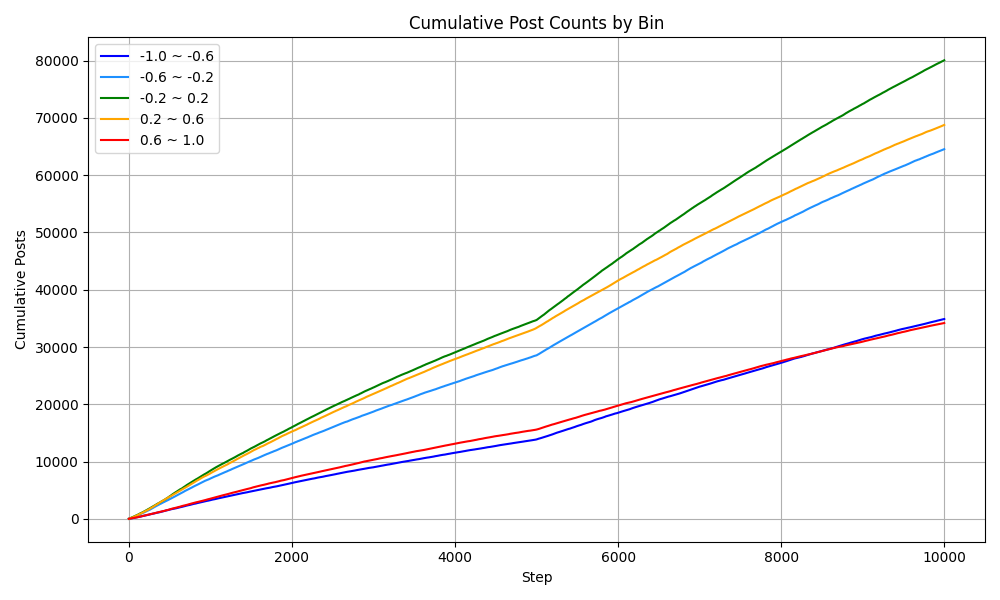
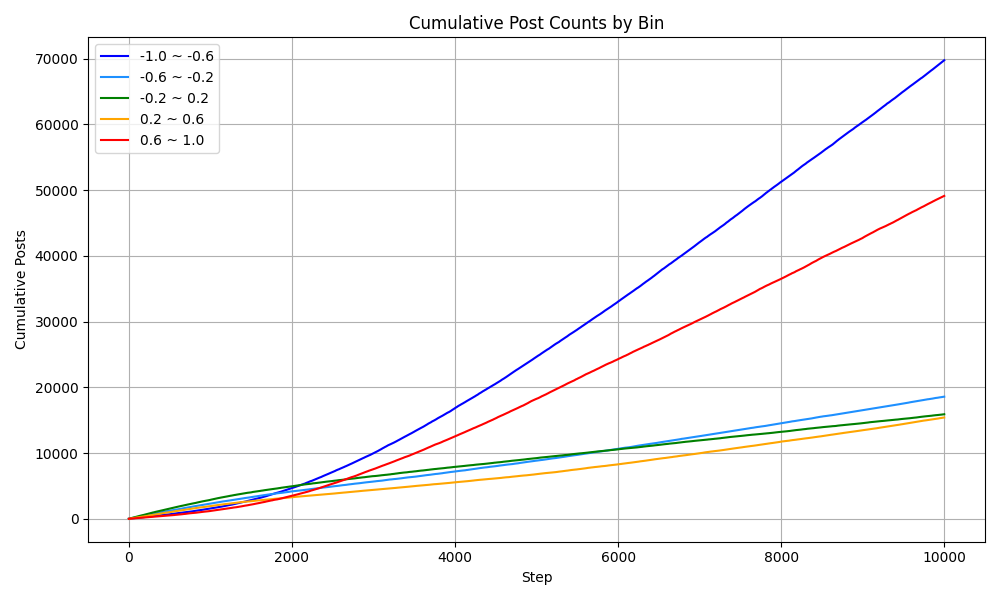
experiment successful as for post polarization

diff --git a/src/admin/AdminOptim.java b/src/admin/AdminOptim.java
@@ -21,7 +21,7 @@ public class AdminOptim {
         return this.W.clone();
     }
 
-    public int[] getFollowerList(){
+    public int[] getFollowerList() {
         return this.followerNumArray.clone();
     }
 
@@ -75,43 +75,47 @@ public class AdminOptim {
     public void updateAdjacencyMatrix(int userId, int likedId, int followedId, int unfollowedId) {
         if (likedId >= 0) {
             // フォローしていないユーザに対するいいねは無視
-            if(this.W[userId][likedId] > 0.0){
-                this.W[userId][likedId] += Const.LIKE_INCREASE_WEIGHT;
-            }
+            /*
+             * if(this.W[userId][likedId] > 0.0){
+             * this.W[userId][likedId] += Const.LIKE_INCREASE_WEIGHT;
+             * }
+             */
             // this.W[userId][likedId] = 1.01 * this.W[userId][likedId];
             // System.out.println("increased weight : " + this.W[userId][likedId]);
         }
         if (followedId >= 0) {
-            this.W[userId][followedId] = Const.FOLLOW_INCREASE_WEIGHT;
+            // this.W[userId][followedId] = Const.FOLLOW_INCREASE_WEIGHT;
+            this.W[userId][followedId] = 1.0;
         }
         if (unfollowedId >= 0) {
             this.W[userId][unfollowedId] = 0.0;
         }
 
-        double rowSum = 0.0;
-        for (int j = 0; j < n; j++) {
-            if (this.W[userId][j] > 0.5) {
-                this.W[userId][j] = 0.5;
-            }else if(this.W[userId][j] < 0.0){
-                this.W[userId][j] = 0.0;
-            }
-            rowSum += this.W[userId][j];
-        }
-        if (rowSum > 0.0) {
-            for (int j = 0; j < n; j++) {
-                this.W[userId][j] /= rowSum;
-            }
-        }
-       /*if(userId == 10){
-            for(int i = 0; i < n ; i++){
-                System.out.println(this.W[userId][i]);
-            }
-        }*/
+        /*
+         * double rowSum = 0.0;
+         * for (int j = 0; j < n; j++) {
+         * if (this.W[userId][j] > 0.5) {
+         * this.W[userId][j] = 0.5;
+         * }else if(this.W[userId][j] < 0.0){
+         * this.W[userId][j] = 0.0;
+         * }
+         * rowSum += this.W[userId][j];
+         * }
+         * if (rowSum > 0.0) {
+         * for (int j = 0; j < n; j++) {
+         * this.W[userId][j] /= rowSum;
+         * }
+         * }
+         * if(userId == 10){
+         * for(int i = 0; i < n ; i++){
+         * System.out.println(this.W[userId][i]);
+         * }
+         * }
+         */
         setFollowerNumArray();
     }
 
-    // あるユーザのfeed配列(閲覧投稿数の上限)を決定する関数
-    public void AdminFeedback(int userId, Agent[] agentSet) {
+    public void AdminFeedback(int userId, Agent[] agentSet, List<Post> latestPostList) {
         // iにとってfeed[j]はjの投稿を閲覧できる上限
         // これをW行列から算出する
         int postNum = agentSet[userId].getNumOfPosts(); // ユーザが一度の閲覧で消費する投稿数の上限
@@ -123,55 +127,75 @@ public class AdminOptim {
         }
 
         // add posts from user's postCash to user's feed depending on W matrix
-        int[] maxPostNumArray = new int[this.n];
-        for (int i = 0; i < n; i++) {
-            maxPostNumArray[i] = (int) Math.round(this.W[userId][i] * friendPostNum);
-            if(userId == 182){
-               // System.out.println("max post array : " + maxPostNumArray[i] + ", W[i][j] " + this.W[userId][i]);
-            //System.out.println("W and friedn num " + W[userId][136] + ", "+ friendPostNum);
-            }
+        /*
+         * int[] maxPostNumArray = new int[this.n];
+         * for (int i = 0; i < n; i++) {
+         * maxPostNumArray[i] = (int) Math.round(this.W[userId][i] * friendPostNum);
+         * if(userId == 182){
+         * // System.out.println("max post array : " + maxPostNumArray[i] + ", W[i][j] "
+         * + this.W[userId][i]);
+         * //System.out.println("W and friedn num " + W[userId][136] + ", "+
+         * friendPostNum);
+         * }
+         * }
+         * for (Post post : agentSet[userId].getPostCash().getAllPosts()) {
+         * if (maxPostNumArray[post.getPostUserId()] > 0) {
+         * if(userId % 100 == 0){
+         * //System.out.println("max post num array is " +
+         * maxPostNumArray[post.getPostUserId()]);
+         * }
+         * agentSet[userId].addPostToFeed(post);
+         * maxPostNumArray[post.getPostUserId()]--;
+         * }
+         * }
+         */
+        int addedPost = 0;
+        if(agentSet[userId].getId() % 100 == 0){
+            //System.out.println("post cash size : " + agentSet[userId].getPostCash().getSize());
         }
-        /*for (Post post : agentSet[userId].getPostCash().getAllPosts()) {
-            if (maxPostNumArray[post.getPostUserId()] > 0) {
-                if(userId % 100 == 0){
-                    //System.out.println("max post num array is " + maxPostNumArray[post.getPostUserId()]);
-                }
-                agentSet[userId].addPostToFeed(post);
-                maxPostNumArray[post.getPostUserId()]--;
-            }
-        }*/
         for (Post post : agentSet[userId].getPostCash().getAllPosts()) {
-            //if(this.W[userId][post.getPostUserId()] > 0.0){
-                agentSet[userId].addPostToFeed(post);
-            //}      
+            // if(this.W[userId][post.getPostUserId()] > 0.0){
+            agentSet[userId].addPostToFeed(post);
+            addedPost++;
+            // }
+        }
+        int l = 1;
+        while (addedPost < postNum && l <= latestPostList.size()) {
+            agentSet[userId].addPostToFeed(latestPostList.get(latestPostList.size() - l));
+            l++;
+            addedPost++;
         }
 
         // add recommendation posts to user's feeds
         // いいねが集まってるやつとか、フォロワーが多い人のとか
-        /*int temp = 0;
-        int recommended = 0;
-        if (recommendPostQueue.isEmpty()) {
-            return;
-        }
-        for (int i = recommendPostQueue.size() - 1; i >= 0 && temp < recommendPostNum; i--) {
-            if(recommendPostQueue.get(i).getPostUserId() == userId){
-                continue;
-            }
-            agentSet[userId].addPostToFeed(recommendPostQueue.get(i));
-            recommended++;
-            temp++;
-        }
-
-        if(postNum - agentSet[userId].getFeed().size() > 10){
-            for (int i = recommendPostQueue.size() - recommended - 1; i >= 0 && agentSet[userId].getFeed().size() + 1 <= postNum; i--) {
-                if(recommendPostQueue.get(i).getPostUserId() == userId){
-                    continue;
-                }
-                agentSet[userId].addPostToFeed(recommendPostQueue.get(i));
-            }
-        }
-        if(postNum - agentSet[userId].getFeed().size() > 10){
-            System.out.println("size underflow !!");
-        }*/
+        /*
+         * int temp = 0;
+         * int recommended = 0;
+         * if (recommendPostQueue.isEmpty()) {
+         * return;
+         * }
+         * for (int i = recommendPostQueue.size() - 1; i >= 0 && temp <
+         * recommendPostNum; i--) {
+         * if(recommendPostQueue.get(i).getPostUserId() == userId){
+         * continue;
+         * }
+         * agentSet[userId].addPostToFeed(recommendPostQueue.get(i));
+         * recommended++;
+         * temp++;
+         * }
+         * 
+         * if(postNum - agentSet[userId].getFeed().size() > 10){
+         * for (int i = recommendPostQueue.size() - recommended - 1; i >= 0 &&
+         * agentSet[userId].getFeed().size() + 1 <= postNum; i--) {
+         * if(recommendPostQueue.get(i).getPostUserId() == userId){
+         * continue;
+         * }
+         * agentSet[userId].addPostToFeed(recommendPostQueue.get(i));
+         * }
+         * }
+         * if(postNum - agentSet[userId].getFeed().size() > 10){
+         * System.out.println("size underflow !!");
+         * }
+         */
     }
 }

diff --git a/src/agent/Agent.java b/src/agent/Agent.java
@@ -155,6 +155,16 @@ public class Agent {
         this.opinionClass = (int) Math.min(shiftedOpinion / opinionBinWidth, Const.NUM_OF_BINS_OF_OPINION - 1);
     }
 
+    public void setFollowList(double[][] W){
+        for(int i = 0 ; i < W.length ; i++){
+            for(int j = 0 ; j < W.length; j++){
+                if(W[i][j] > 0.0){
+                    this.followList[j] = true;
+                }
+            }
+        }
+    }
+
     public void addToPostCash(Post post) {
         if (!this.alreadyAddedPostIds.contains(post.getPostId())) {
             this.postCash.addPost(post);
@@ -163,8 +173,8 @@ public class Agent {
 
     // other methods
     public void receiveLike(){
-        this.postProb += 0.1;
-        //this.mediaUseRate += 0.01;
+        this.postProb += 0.001;
+        //this.mediaUseRate += 0.001;
     }
 
     public void resetPostCash() {
@@ -210,14 +220,17 @@ public class Agent {
 
         if (comfortPostRate > Const.COMFORT_RATE) {
             //this.postProb += 0.01 * decayFunc(this.timeStep);
-            this.postProb += 0.001;
+            this.postProb += 0.01;
             //this.mediaUseRate += 0.01 * decayFunc(this.timeStep);
-           // this.mediaUseRate += 0.01;
+           //this.mediaUseRate += 0.01;
         } else {
             //this.postProb -= 0.0001 * decayFunc(this.timeStep);
             this.postProb -= 0.001;
+            if(this.postProb < 0.01){
+                this.postProb = 0.01;
+            }
             //this.mediaUseRate -= 0.0001 * decayFunc(this.timeStep);
-            this.mediaUseRate -= 0.0001;
+            //this.mediaUseRate -= 0.00;
         }
 
         this.opinion = this.tolerance * this.intrinsicOpinion + (1 - this.tolerance) * (temp / postNum);
@@ -276,7 +289,7 @@ public class Agent {
 
         List<Integer> candidates = new ArrayList<>();
     
-        for (Post post : latestPostList) {
+        for (Post post : this.feed) {
             if (Math.abs(post.getPostOpinion() - this.opinion) < this.bc && this.id != post.getPostUserId()
                     && !this.followList[post.getPostUserId()] && !this.unfollowList[post.getPostUserId()]) {
                 candidates.add(post.getPostUserId());
@@ -301,17 +314,29 @@ public class Agent {
             }
         }
         if (this.feed.size() <= 0.0 || followeeNum <= 2) {
+            if(this.id % 10 == 0){
+              //  System.out.println("feed size " + this.feed.size() + ", followee num " + followeeNum);
+            }
             return -1;
         }
         List<Post> candidates = new ArrayList<>();
         for(Post post : this.feed){
-            if(Math.abs(post.getPostOpinion() - this.opinion) > this.bc && this.followList[post.getPostUserId()]){
+            if(this.id % 10 ==0){
+               // System.out.println("opinion diff : " + Math.abs(post.getPostOpinion() - this.opinion));
+            }
+            if(Math.abs(post.getPostOpinion() - this.opinion) > this.bc){
                 this.unfollowList[post.getPostUserId()] = true;
                 this.bc -= 0.01;
+                if(this.id % 10 == 0){
+                //    System.out.println("disagg posts");
+                }
                 if(this.bc < Const.MINIMUM_BC){
                     this.bc = Const.MINIMUM_BC;
                 }
+                if(this.followList[post.getPostUserId()]){
                 candidates.add(post);
+                }
+
             }
         }
         if(!candidates.isEmpty()){

diff --git a/src/dynamics/OpinionDynamics.java b/src/dynamics/OpinionDynamics.java
@@ -33,8 +33,8 @@ public class OpinionDynamics {
 
     // constructor
     public OpinionDynamics() {
-        setAgents();
         setNetwork();
+        setAgents();
         this.analyzer = new Analysis();
         this.writer = new Writer(folerPath, resultList);
         this.gephi = new GraphVisualize(0.00, agentSet, network);
@@ -42,18 +42,21 @@ public class OpinionDynamics {
     }
 
     private void setAgents() {
+        double[][] tempAdjacencyMatrix = this.network.getAdjacencyMatrix();
         for (int i = 0; i < agentNum; i++) {
             agentSet[i] = new Agent(i);
+            agentSet[i].setFollowList(tempAdjacencyMatrix);
         }
     }
 
     private void setNetwork() {
         ///// you can change the initial network bellow
         //this.network = new RandomNetwork(agentNum, connectionProbability);
-        this.network = new ConnectingNearestNeighborNetwork(agentNum, 0.8);
+        this.network = new ConnectingNearestNeighborNetwork(agentNum, 0.5);
         /////
 
         this.network.makeNetwork(agentSet);
+        System.out.println("finish making network");
     }
 
     private void errorReport() {
@@ -98,7 +101,7 @@ public class OpinionDynamics {
                     continue;
                 }
     
-                admin.AdminFeedback(agentId, agentSet);
+                admin.AdminFeedback(agentId, agentSet, latestPostList);
                 if(agent.getId() % 100 == 0){
                    // System.out.println("post cash length is " + agent.getPostCash().getSize());
                     //System.out.println("feed length is " + agent.getFeed().size());

diff --git a/src/analysis/AssertionCheck.java b/src/analysis/AssertionCheck.java
@@ -22,7 +22,7 @@ public class AssertionCheck {
     public void assertionChecker(Agent[] agentSet, AdminOptim admin, int agentNum, int step) {
         double[][] tempAdjMatrix = admin.getAdjacencyMatrix();
         // w行列の行方向の和は常に1.0
-        for (int i = 0; i < n; i++) {
+        /*for (int i = 0; i < n; i++) {
             double temp = 0;
             for(int j = 0; j < n; j++){
                 if(i == j){
@@ -41,7 +41,7 @@ public class AssertionCheck {
             if(Math.abs(temp - 1.0) > 0.1){
                 System.out.println("AC Error: sum of the row is not equal to 1 in node " + i + " because sum is " + temp);
             }
-        }
+        }*/
 
         // opinion should be in [-1, 1]
         for(int i = 0 ; i < n ; i++){

diff --git a/src/constants/Const.java b/src/constants/Const.java
@@ -2,7 +2,7 @@ package constants;
 
 public class Const {
     // simulation parameter
-    public static final int MAX_SIMULATION_STEP = 5000;
+    public static final int MAX_SIMULATION_STEP = 10000;
     public static final int NUM_OF_USER = 1000;
     public static final int NUM_OF_SNS_USER = NUM_OF_USER;
     public static final int RANDOM_SEED = 914;
@@ -29,7 +29,7 @@ public class Const {
     public static final double FEED_PREFERENTIALITY_RATE = 0.0;
 
     // follow parameter
-    public static final double INITIAL_FOLLOW_RATE = 0.1;
+    public static final double INITIAL_FOLLOW_RATE = 0.01;
 
     // unfollow parameter
     public static final double INITIAL_UNFOLLOW_RATE = 0.1;

diff --git a/src/network/ConnectingNearestNeighborNetwork.java b/src/network/ConnectingNearestNeighborNetwork.java
@@ -78,7 +78,7 @@ public class ConnectingNearestNeighborNetwork extends Network {
         }
 
         // 正規化処理
-        for (int i = 0; i < getSize(); i++) {
+        /*for (int i = 0; i < getSize(); i++) {
             int rowSum = 0;
             for (int j = 0; j < getSize(); j++) {
                 rowSum += this.adjacencyMatrix[i][j];
@@ -92,6 +92,6 @@ public class ConnectingNearestNeighborNetwork extends Network {
                     }
                 }
             }
-        }
+        }*/
     }
 }

diff --git a/src/network/Network.java b/src/network/Network.java
@@ -37,7 +37,7 @@ public abstract class Network {
     // change the num of posts from user j that user i can see
     public void setEdge(int i, int j, double weight) {
         if (i >= 0 && i < size && j >= 0 && j < size) { // 不正検知
-            adjacencyMatrix[i][j] = weight; // weightはユーザiがユーザjの投稿を何件閲覧するか
+            adjacencyMatrix[i][j] = 1.0; // weightはユーザiがユーザjの投稿を何件閲覧するか
         }
     }
 
